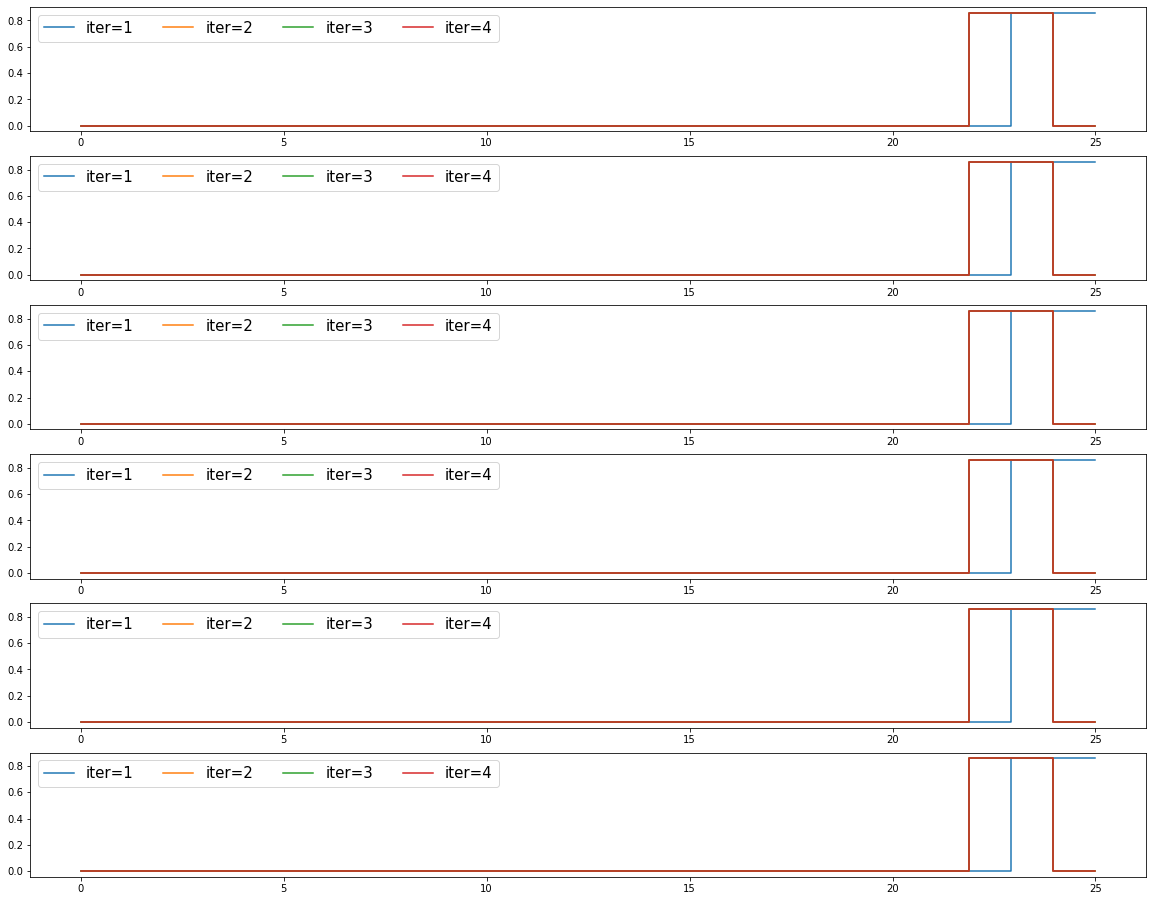
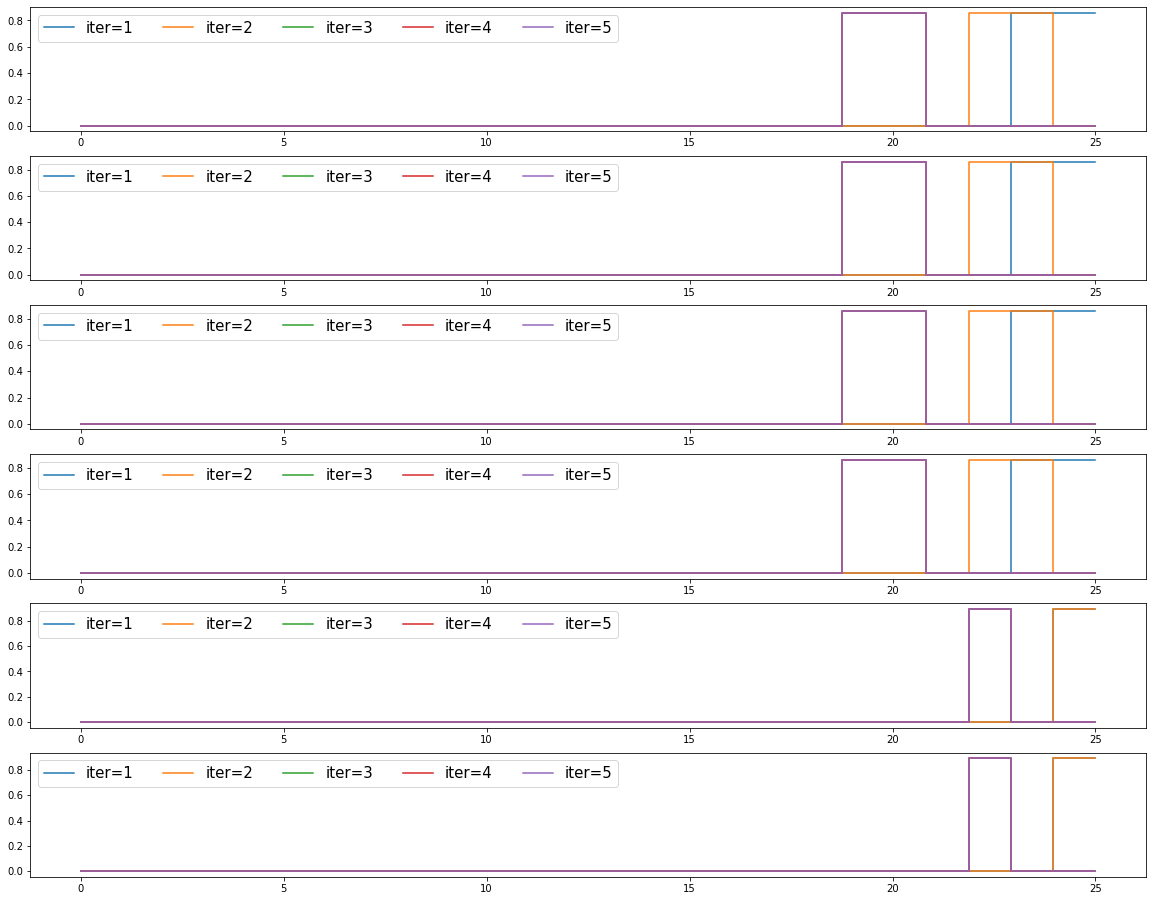
updated code

diff --git a/opt-usage-toyexamp.py b/opt-usage-toyexamp.py
@@ -75,13 +75,12 @@ def get_home_data(home_filename):
                     for t in range(24)]
     return home_data
 
-homes = get_home_data(homepath)
+all_homes = get_home_data(homepath)
 
 # Store the home data for the following houses with IDs from the toy network
 homeid = [511210207001189,51121020900342,511210203001855,511210207001113,
           51121020900346,51121021300494]
-homeid = [511210207001189]*6
-homes = {k+1:homes[h] for k,h in enumerate(homeid)}
+
 
 
 #%% Optimize power usage schedule
@@ -174,7 +173,7 @@ ncord = {0:[0,0],1:[1,-1],2:[1,-2],3:[2,-1],4:[2,1],5:[4,-1],6:[4,-2],
 elabel = {(0,10):'E',(10,11):'P',(11,12):'P',(12,13):'P',(13,14):'P',
           (11,1):'S',(1,2):'S',(12,3):'S',(12,4):'S',(14,5):'S',(5,6):'S'}
 
-util = 50
+util = 20
 prefix = "samerate-"+"net5"
 
 e_r = {(0,10):1e-12, (10,11):0.001,(11,12):0.001,(12,13):0.001,(13,14):0.001*util,
@@ -192,6 +191,10 @@ for e in edgelist:
 for n in dist:
     dist.nodes[n]['load'] = [0.0]*24
 
+# Home data
+homeid = [511210207001189]*4+[51121021300494]*2
+# homeid = [511210207001189]*6
+homes = {k+1:all_homes[h] for k,h in enumerate(homeid)}
 
 #%% Iterative algorithm
 
@@ -208,7 +211,7 @@ alpha_history = {}
 volt_history = {}
 load_history = {}
 sl_history = {}
-iterations = 4
+iterations = 5
 
 k = 0
 while(k <= iterations):
